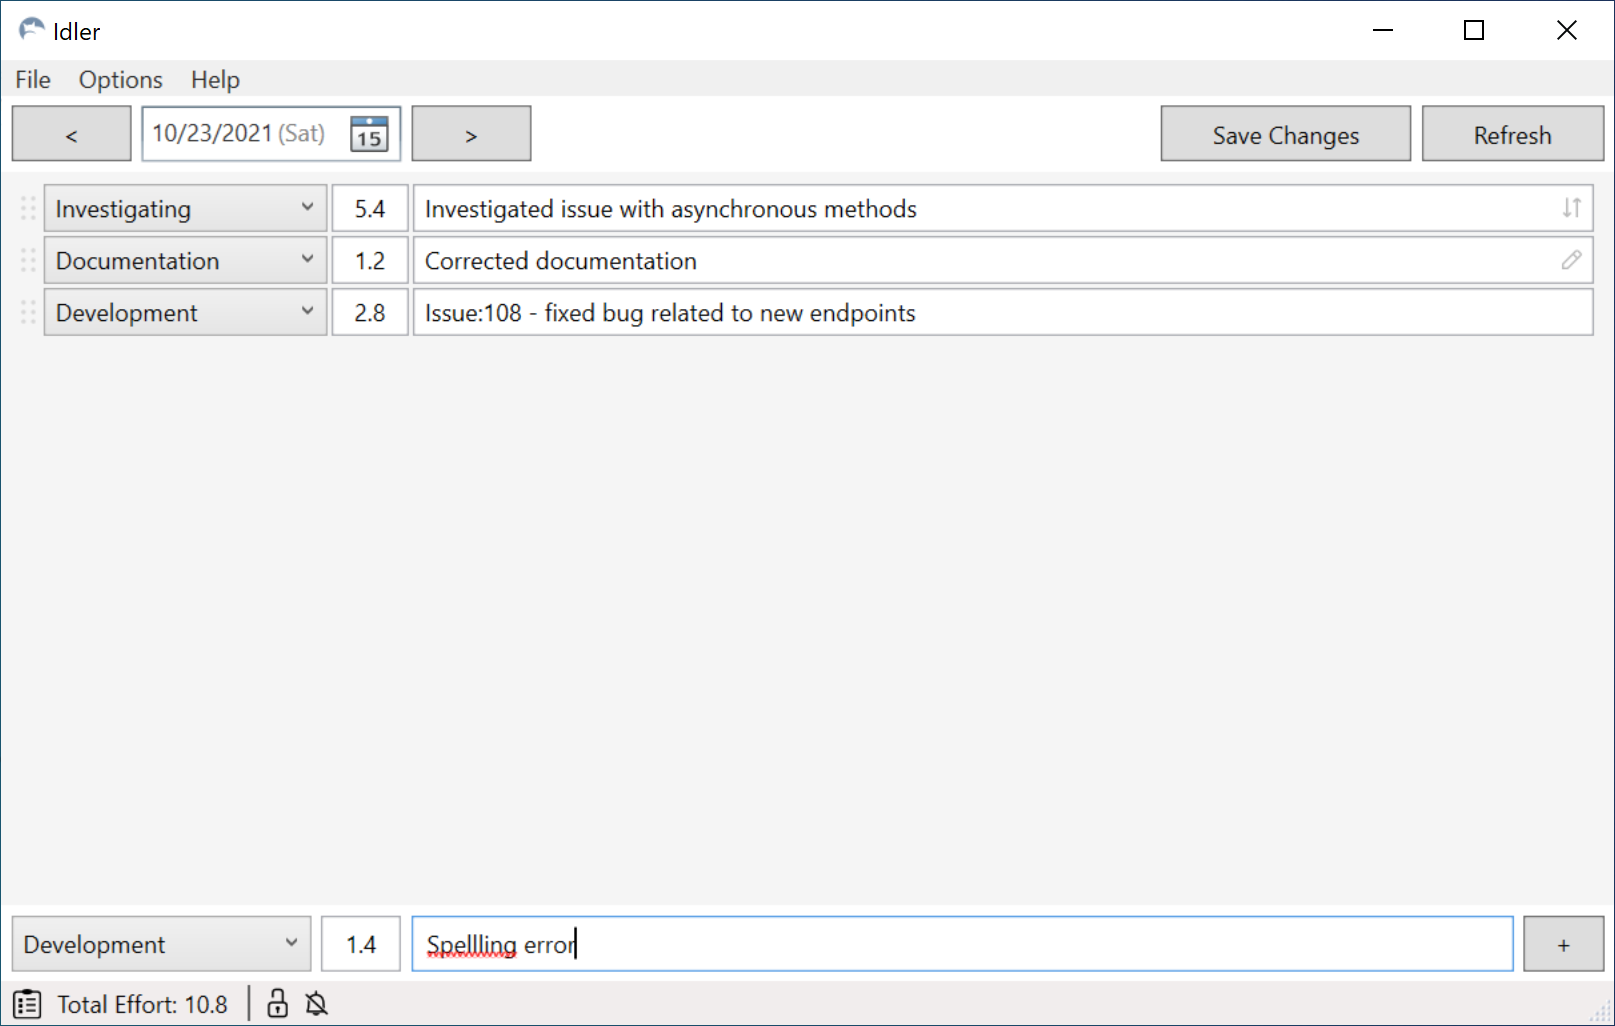
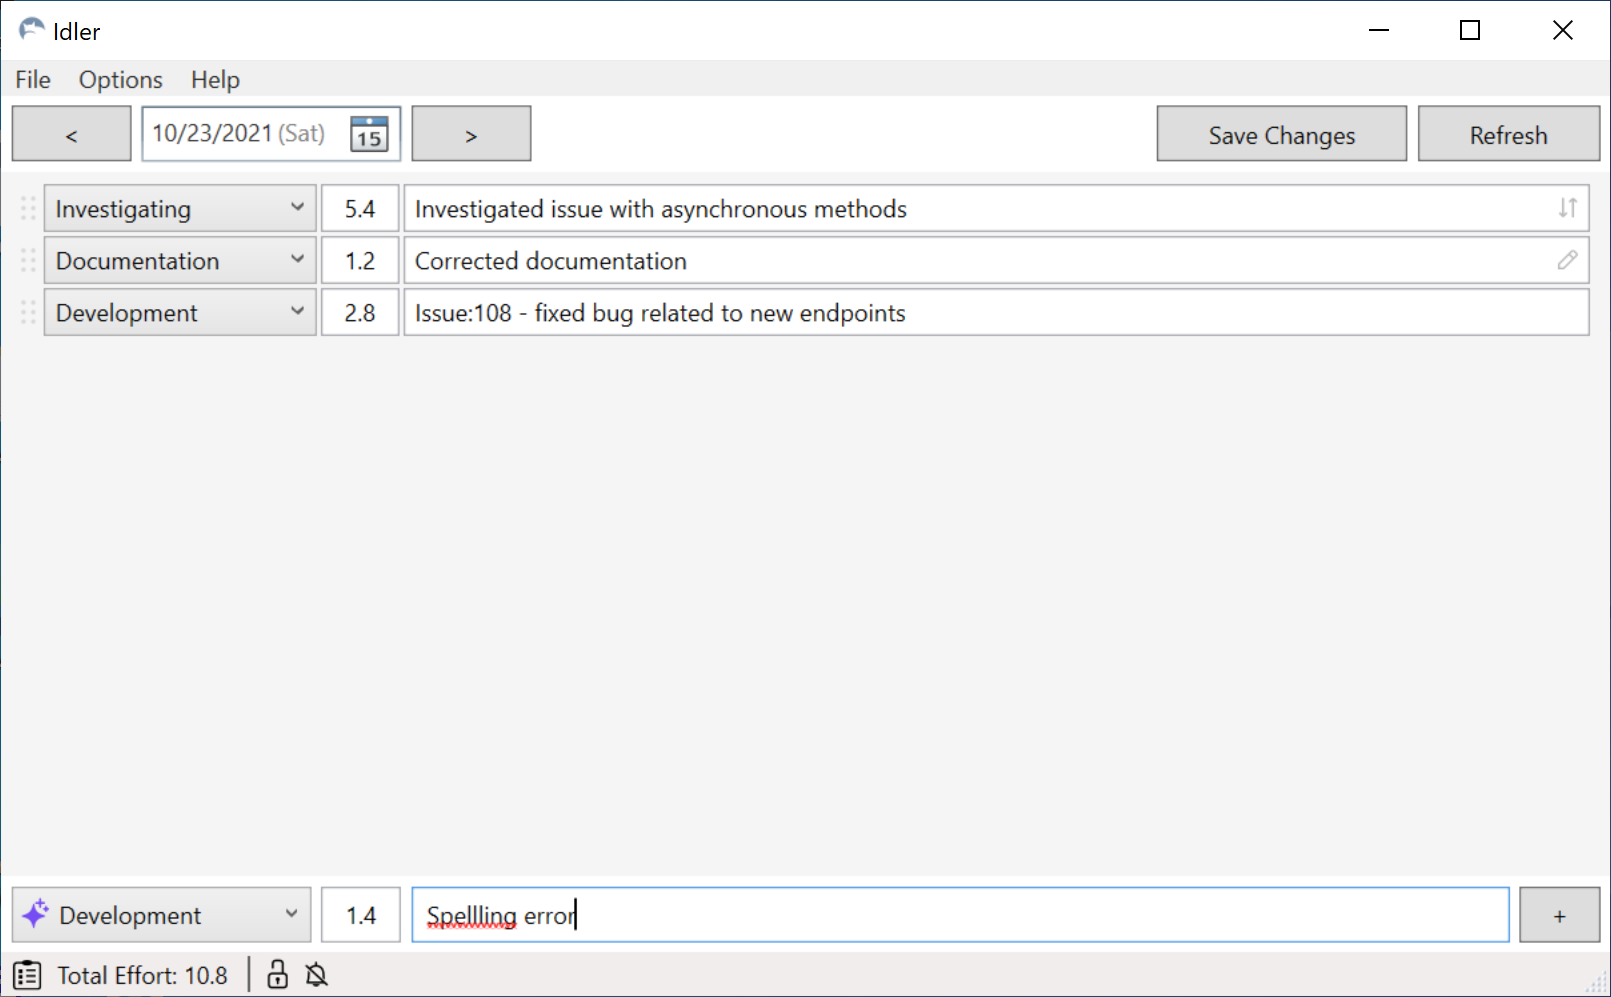
Update documentation for auto-categorization (#131)

Changed region(s): [[0.0, 0.0, 0.9932, 0.342], [0.0, 0.8706, 0.9932, 0.995]]

diff --git a/README.md b/README.md
@@ -71,7 +71,9 @@ Language which is used to perform spellcheck is current input language on your P
 
 Unlock effortless organization with our app’s auto-categorization feature, designed to save you time and keep you focused. As you type a note’s description, the app intelligently analyzes your input and assigns the perfect category in real time. This seamless process ensures your notes are organized without any extra effort. For your peace of mind, all data processing happens securely on your device, keeping your information private and protected.
 
-> Currently, the feature is supported only in area to add new note. To increase accuracy, keep unused categorized hidden. Any change in categories affects NLP model used for auto-categorization, so if anything has changed in category descriptions or visibility, please delete file `IdlerNlpModel.zip` from the app folder and restart it to take all changes in effect.
+> Currently, the feature is supported only in area to add new note. To increase accuracy, keep unused categorized hidden. Any change in categories affects auto-categorization logic, so if anything has changed in category description or visibility, please delete file `IdlerNlpModel.zip` from the app folder and restart it to take all changes in effect.
+
+When you change category manually while auto-categorization feature is enabled, it temporarily disables the feature (you may notice the sparkle icon becomes gray). It will be enabled automatically once you finished adding a note or you can enable it manually bu clicking on the sparkle icon.
 
 ### Reminders
 
